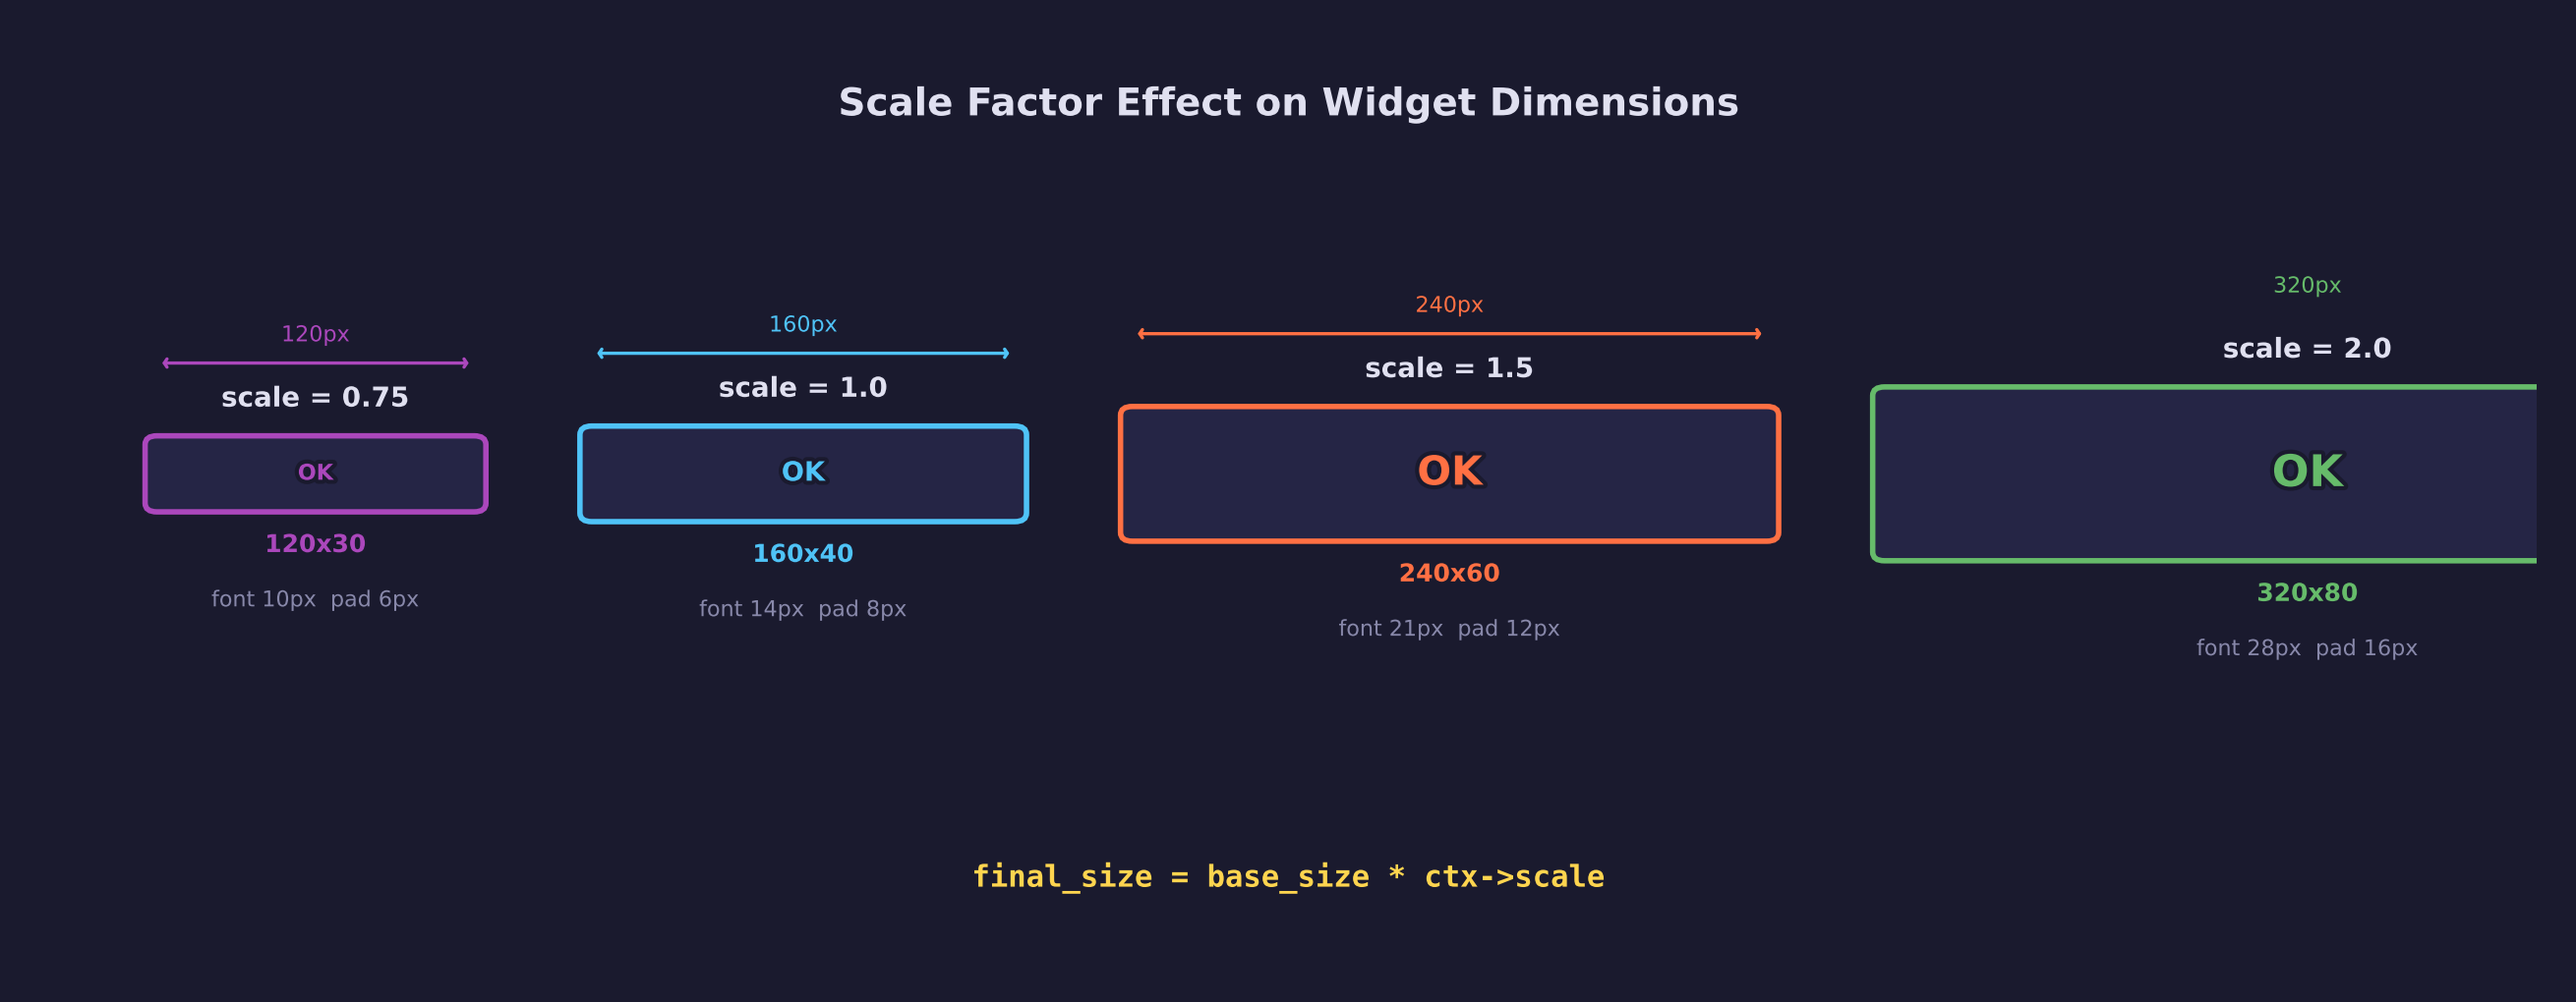
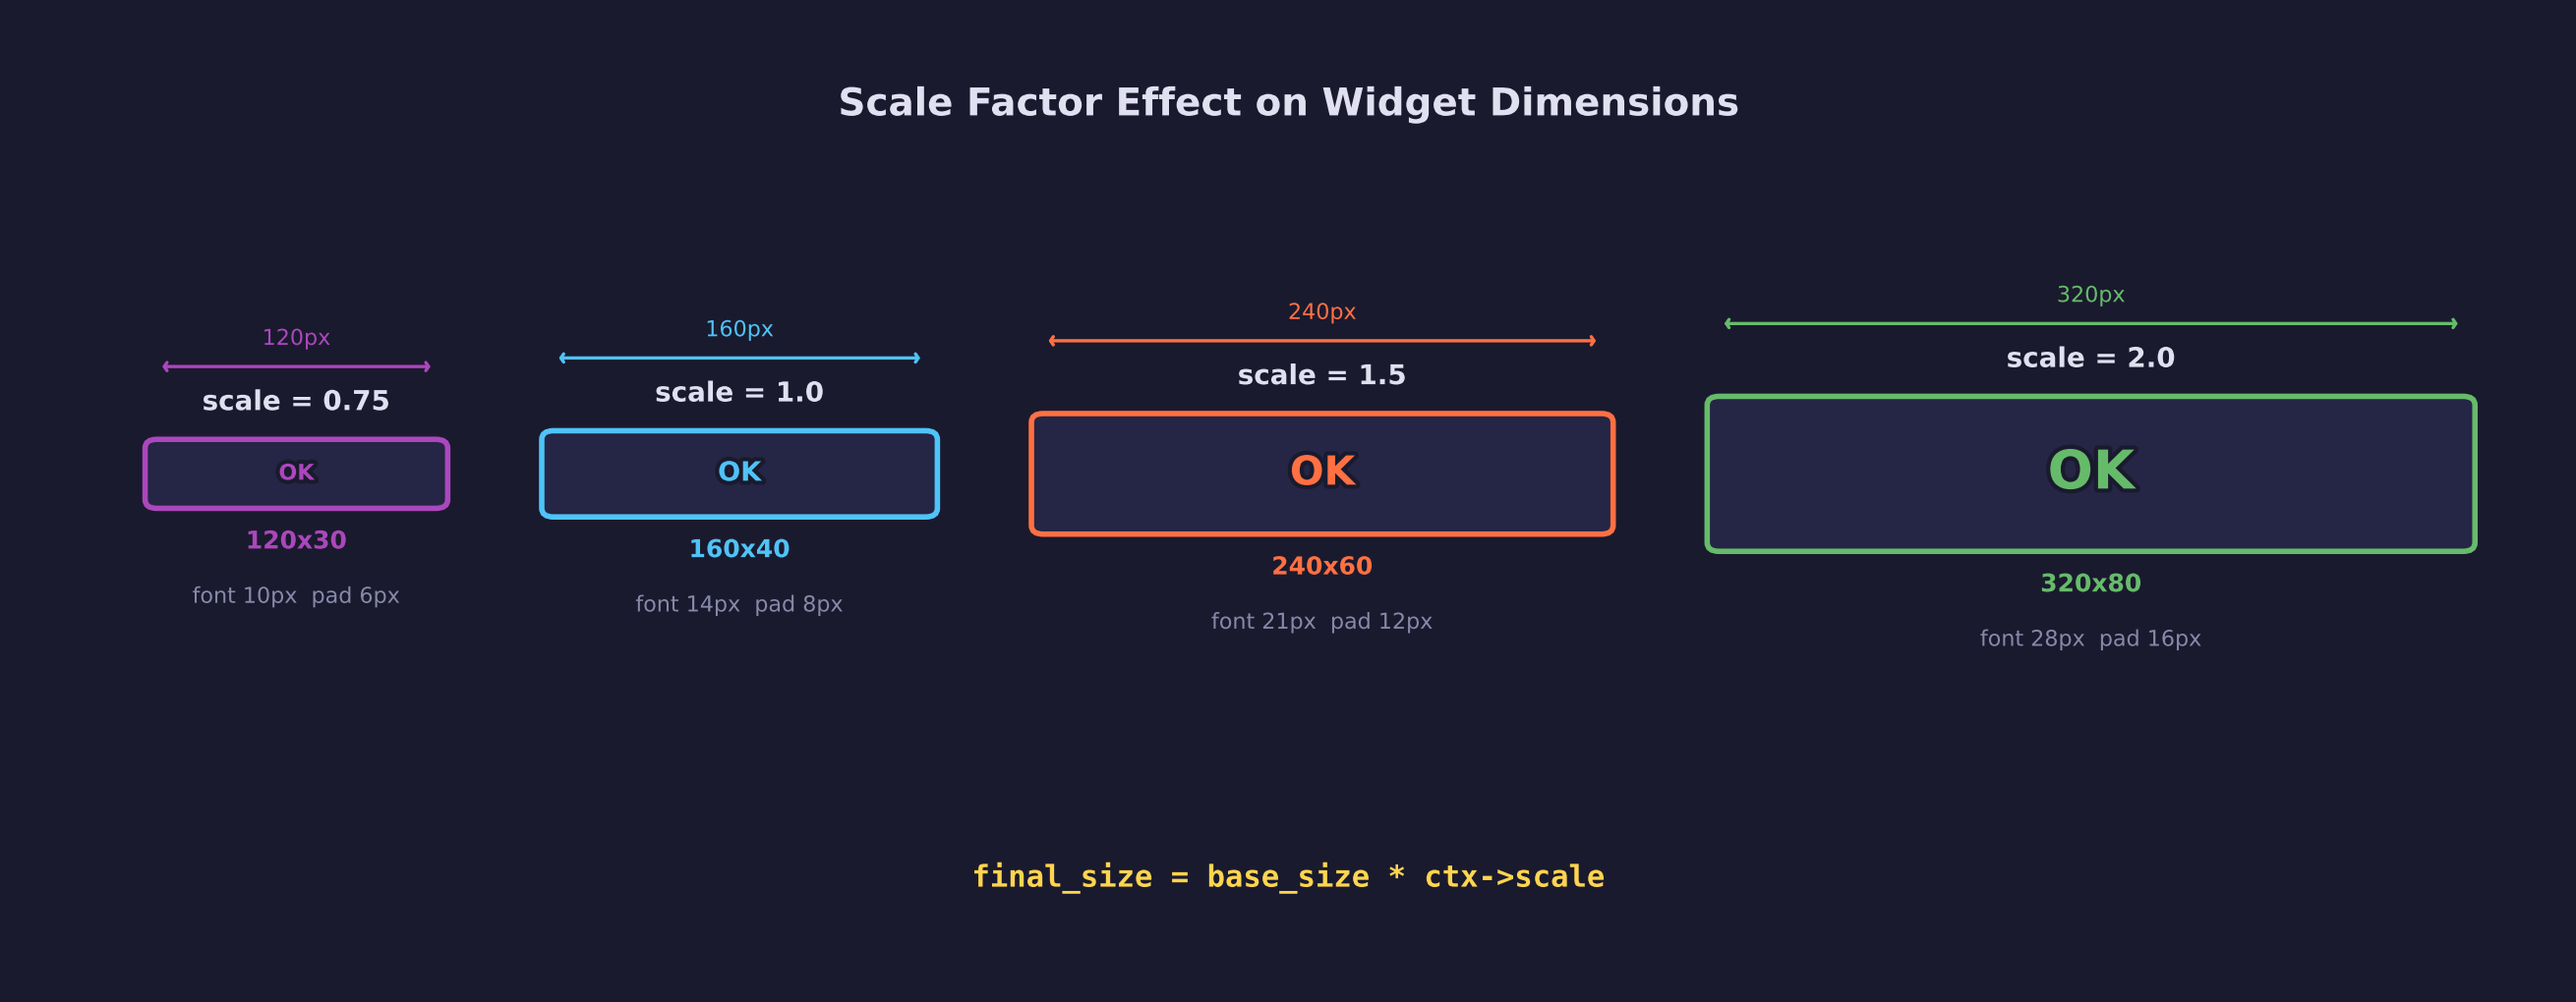
Address PR feedback: fix diagram clipping, arrow accuracy, and README wording
- scale_factor_effect: compute vis_scale dynamically from available width
  so the 2.0x button fits without clipping; remove fontsize cap
- spacing_struct_overview: move panel_padding arrow to bottom edge where
  it spans exactly pp (was incorrectly spanning panel-top to content-top
  which included title bar height)
- README: rephrase three consecutive "At scale…" sentences for variety

diff --git a/scripts/forge_diagrams/ui_diagrams.py b/scripts/forge_diagrams/ui_diagrams.py
@@ -8783,9 +8783,14 @@ def diagram_scale_factor_effect():
     scales = [0.75, 1.0, 1.5, 2.0]
     colors = [STYLE["accent4"], STYLE["accent1"], STYLE["accent2"], STYLE["accent3"]]
 
-    # Render each button proportionally
-    vis_scale = 0.018  # scale pixels to axes units
-    x_cursor = 0.3
+    # Compute vis_scale dynamically so all four buttons fit within the axes
+    x_start = 0.3
+    x_end = 16.0  # leave 0.5 margin from xlim=16.5
+    gap = 0.8
+    total_pixel_w = sum(base_w * s for s in scales)
+    gap_total = (len(scales) - 1) * gap
+    vis_scale = (x_end - x_start - gap_total) / total_pixel_w
+    x_cursor = x_start
 
     for _i, (s, col) in enumerate(zip(scales, colors)):
         w = base_w * s * vis_scale
@@ -8810,13 +8815,13 @@ def diagram_scale_factor_effect():
         )
         ax.add_patch(btn)
 
-        # Button label
+        # Button label — scale proportionally, floor at 8pt
         ax.text(
             x_cursor + w / 2,
             y_bot + h / 2,
             "OK",
             color=col,
-            fontsize=max(8, min(16, font_px * 0.7)),
+            fontsize=max(8, font_px * 0.7),
             fontweight="bold",
             ha="center",
             va="center",
@@ -9353,12 +9358,12 @@ def diagram_spacing_struct_overview():
         path_effects=stroke,
     )
 
-    # 2. panel_padding — left side of panel
+    # 2. panel_padding — bottom-left side of panel (shows exact pp distance)
     ppd_x = mock_x - 0.3
     ax.annotate(
         "",
-        xy=(ppd_x, mock_y + mock_h),
-        xytext=(ppd_x, content_top),
+        xy=(ppd_x, mock_y),
+        xytext=(ppd_x, content_y),
         arrowprops={
             "arrowstyle": "<->,head_width=0.15,head_length=0.08",
             "color": STYLE["accent4"],
@@ -9367,7 +9372,7 @@ def diagram_spacing_struct_overview():
     )
     ax.text(
         ppd_x - 0.3,
-        (mock_y + mock_h + content_top) / 2,
+        (mock_y + content_y) / 2,
         "panel_padding",
         color=STYLE["accent4"],
         fontsize=9,

diff --git a/lessons/ui/12-font-scaling-and-spacing/README.md b/lessons/ui/12-font-scaling-and-spacing/README.md
@@ -119,8 +119,8 @@ For example, the checkbox function computes its box size as:
 float cb_size = FORGE_UI_SCALED(ctx, ctx->spacing.checkbox_box_size);
 ```
 
-At scale 1.0 this returns 18.0 (the default).  At scale 1.5 it returns 27.0.
-At scale 0.75 it returns 13.5.
+At scale 1.0 this returns 18.0 (the default).  Increasing scale to 1.5 yields
+27.0, while 0.75 produces 13.5.
 
 ### The ForgeUiSpacing struct
 
